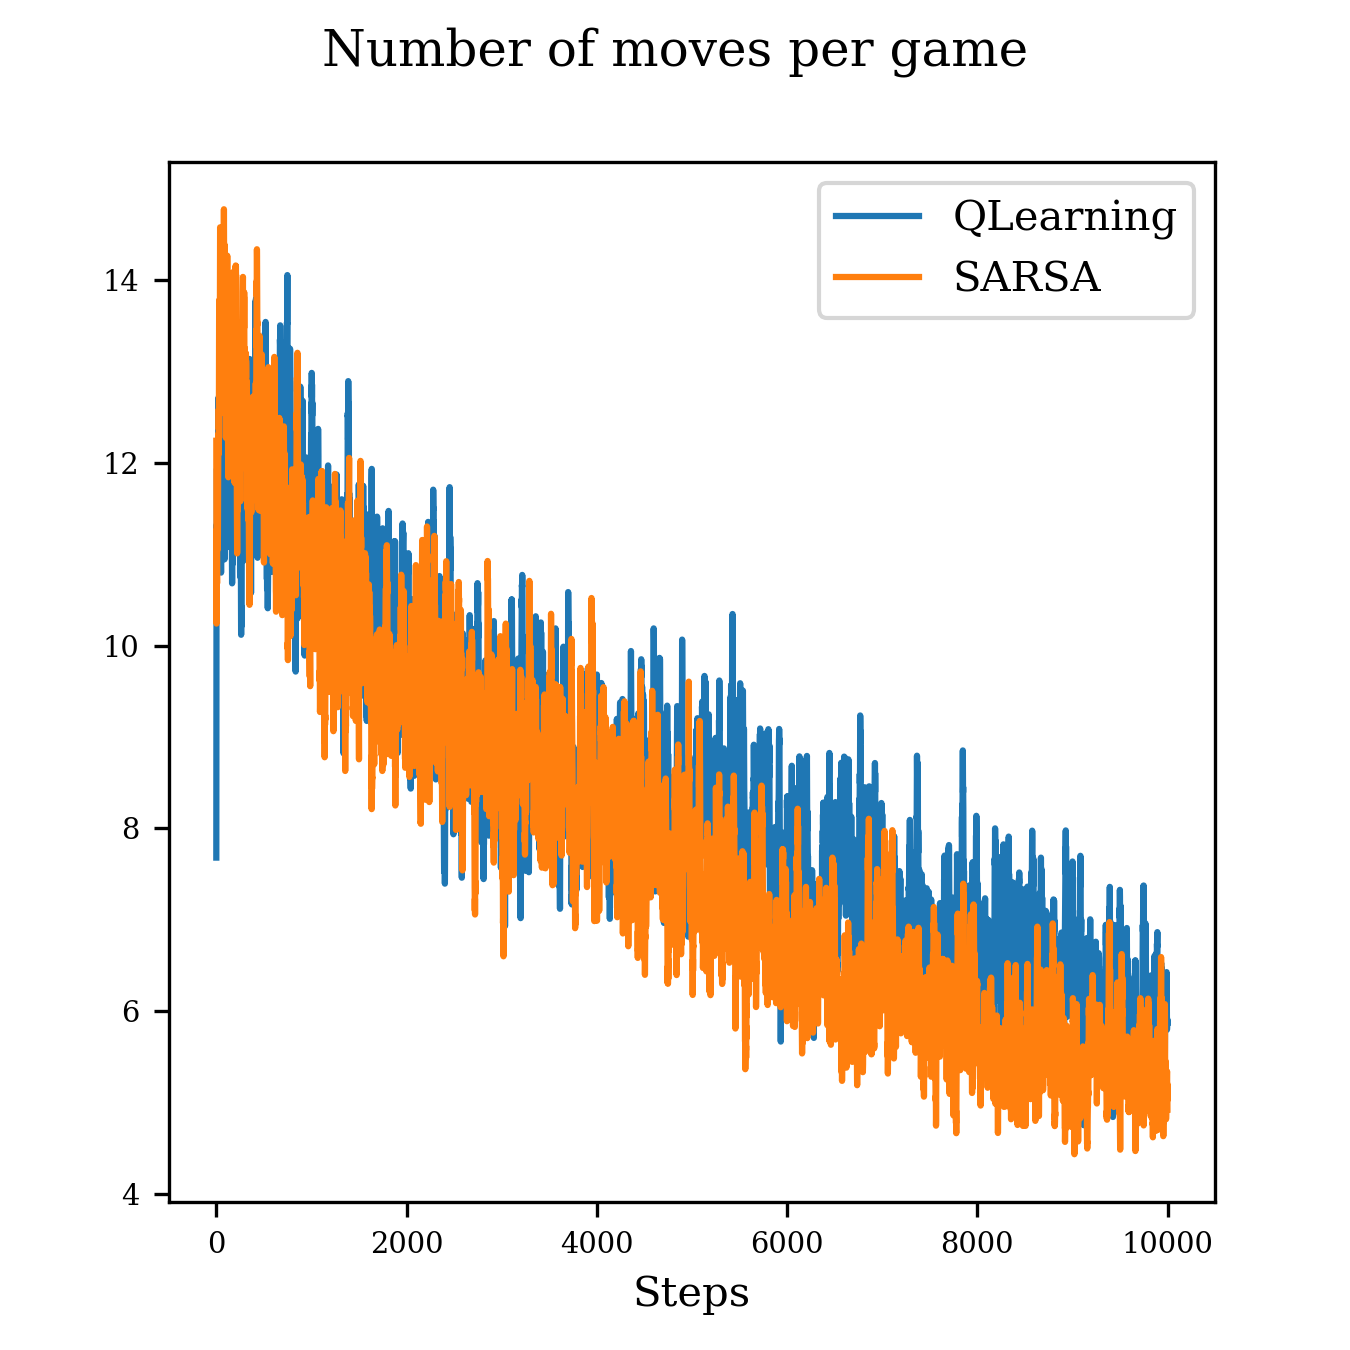
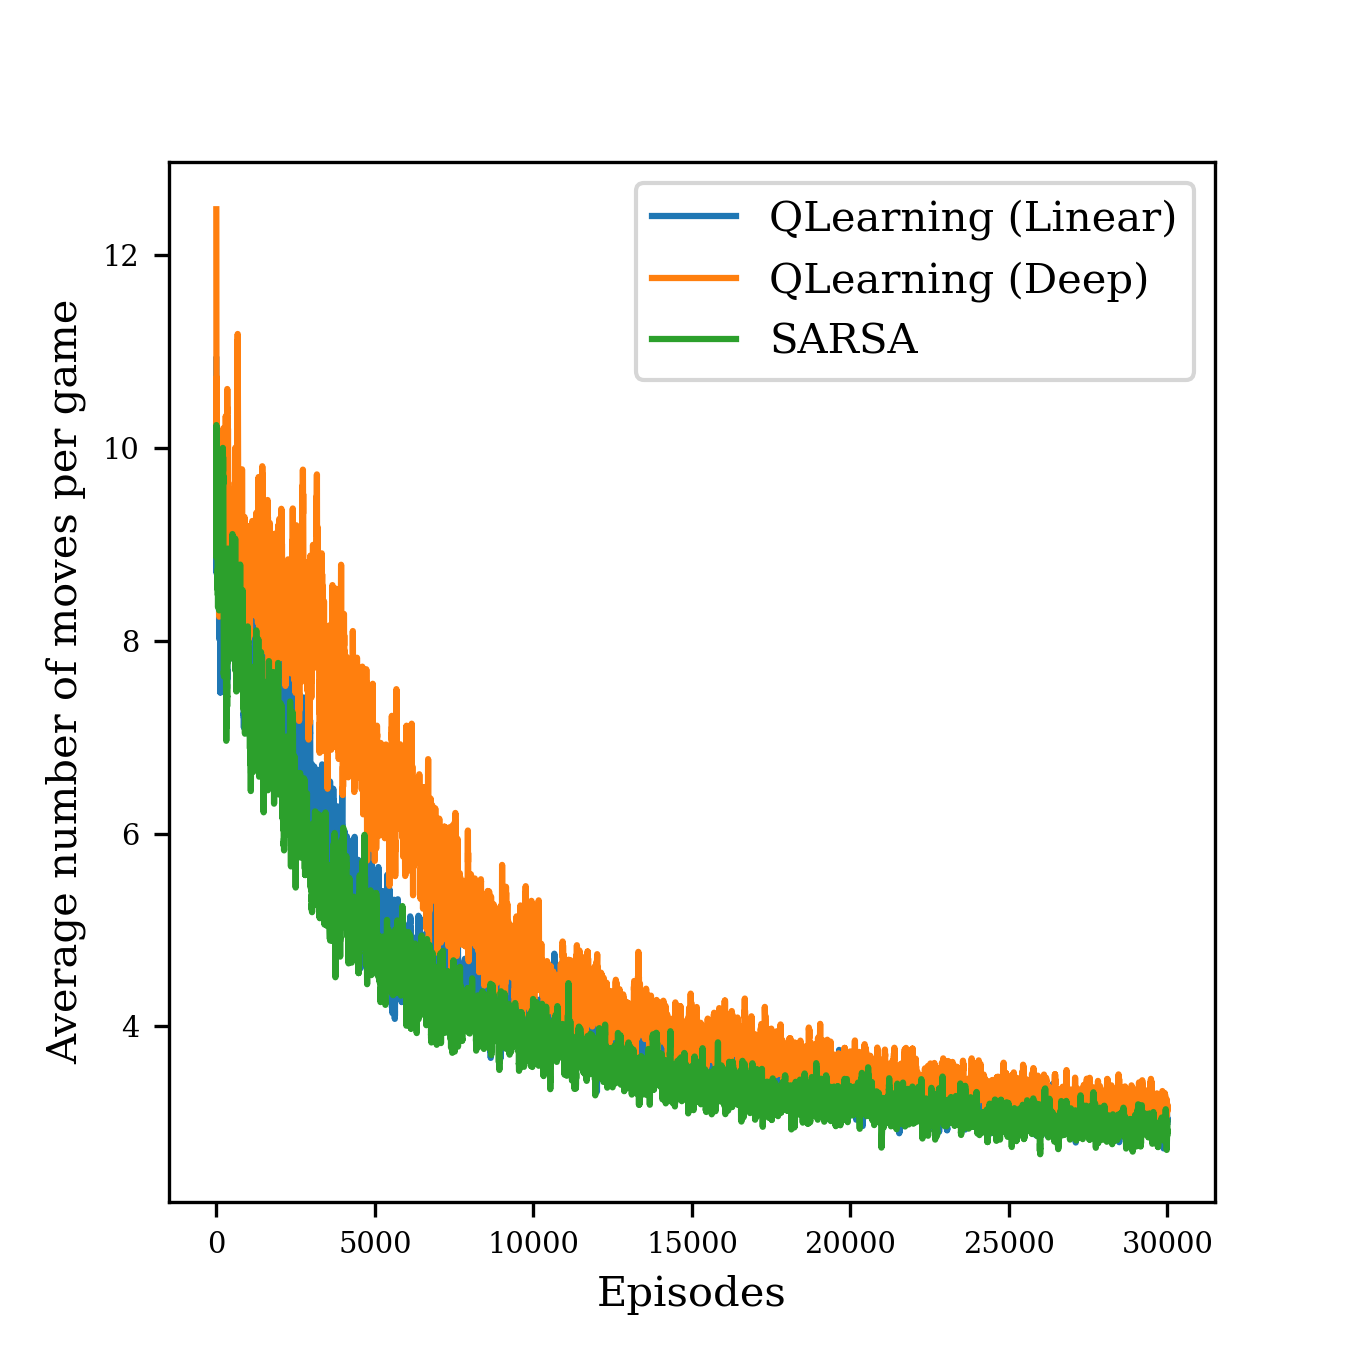
task 3 plot config

diff --git a/task_3_A_semigrad.py b/task_3_A_semigrad.py
@@ -10,38 +10,49 @@ import matplotlib.pyplot as plt
 np.random.seed(42)
 
 
-gamma=0.45
+
 gamma=0.85
-eta=0.05
+
 eta = 0.0035
 epsilon_0=0.2
 activation = "sigmoid"
 activation = None
-N_h = [58]
-N_h = [32]
+
+N_h = [200]
 initialization = "uniform"
+
+
+ma_length = 25
+
 
 exp_name = "t3_std_semigrads"
 
-agent_1_lbl = "QLearning"
-agent_2_lbl = "SARSA"
+agent_1_lbl = "QLearning (Linear)"
+agent_2_lbl = "QLearning (Deep)"
+agent_3_lbl = "SARSA"
 
 qlearnerAgent = QLearnerAgent(optimizer='sgd', method="q-learning", activation=activation,initialization=initialization,gamma=gamma,
                               eta=eta, epsilon_0=epsilon_0, beta=0.00005, N_h=N_h, name=agent_1_lbl)
 
+deepqlearnerAgent = QLearnerAgent(optimizer='sgd', method="q-learning", activation="relu",initialization="uniform",gamma=gamma,
+                              eta=eta, epsilon_0=epsilon_0, beta=0.00005, N_h=[200], name=agent_2_lbl)
+
+
 sarsaAgent = QLearnerAgent(optimizer='sgd', method="sarsa", activation=activation,initialization=initialization,gamma=gamma,
-                              eta=eta, epsilon_0=epsilon_0, beta=0.00005, N_h=N_h, name=agent_2_lbl)
-
-arena = Arena(agents=[qlearnerAgent, sarsaAgent])
+                              eta=eta, epsilon_0=epsilon_0, beta=0.00005, N_h=N_h, name=agent_3_lbl)
 
 
-n_runs = 10
 
-results = arena.sample(episodes=5000, runs=n_runs)
+arena = Arena(agents=[sarsaAgent, deepqlearnerAgent, qlearnerAgent],ma_length=ma_length)
+
+
+n_runs = 25
+
+results = arena.sample(episodes=30000, runs=n_runs)
 
 res_1 = results[agent_1_lbl]
 res_2 = results[agent_2_lbl]
-
+res_3 = results[agent_3_lbl]
 
 params = {
    'font.family': 'serif',
@@ -52,22 +63,25 @@ params = {
 rcParams.update(params)
 
 fig, ax = plt.subplots()
-fig.suptitle(f"Reward per game")
-ax.set_xlabel('Steps')
+#fig.suptitle(f"Reward per game")
+ax.set_xlabel('Episodes')
 ax.set_ylim([0,1])
-#ax.set_ylabel('Average Reward per game')
+ax.set_ylabel('Average Reward per game')
+
 ax.plot(res_1.avg_reward, label=f"{agent_1_lbl}")
 ax.plot(res_2.avg_reward, label=f"{agent_2_lbl}")
+ax.plot(res_3.avg_reward, label=f"{agent_3_lbl}")
 ax.legend()
 fig.savefig(f'plots/{exp_name}_reward.png', dpi=300)
 
 
 fig, ax = plt.subplots()
-fig.suptitle(f"Number of moves per game")
-ax.set_xlabel('Steps')
-#ax.set_ylabel('Average Reward per game')
+#fig.suptitle(f"Number of moves per game")
+ax.set_xlabel('Episodes')
+ax.set_ylabel('Average number of moves per game')
 ax.plot(res_1.avg_moves, label=f"{agent_1_lbl}")
 ax.plot(res_2.avg_moves, label=f"{agent_2_lbl}")
+ax.plot(res_3.avg_moves, label=f"{agent_3_lbl}")
 ax.legend()
 fig.savefig(f'plots/{exp_name}_moves.png', dpi=300)
 
